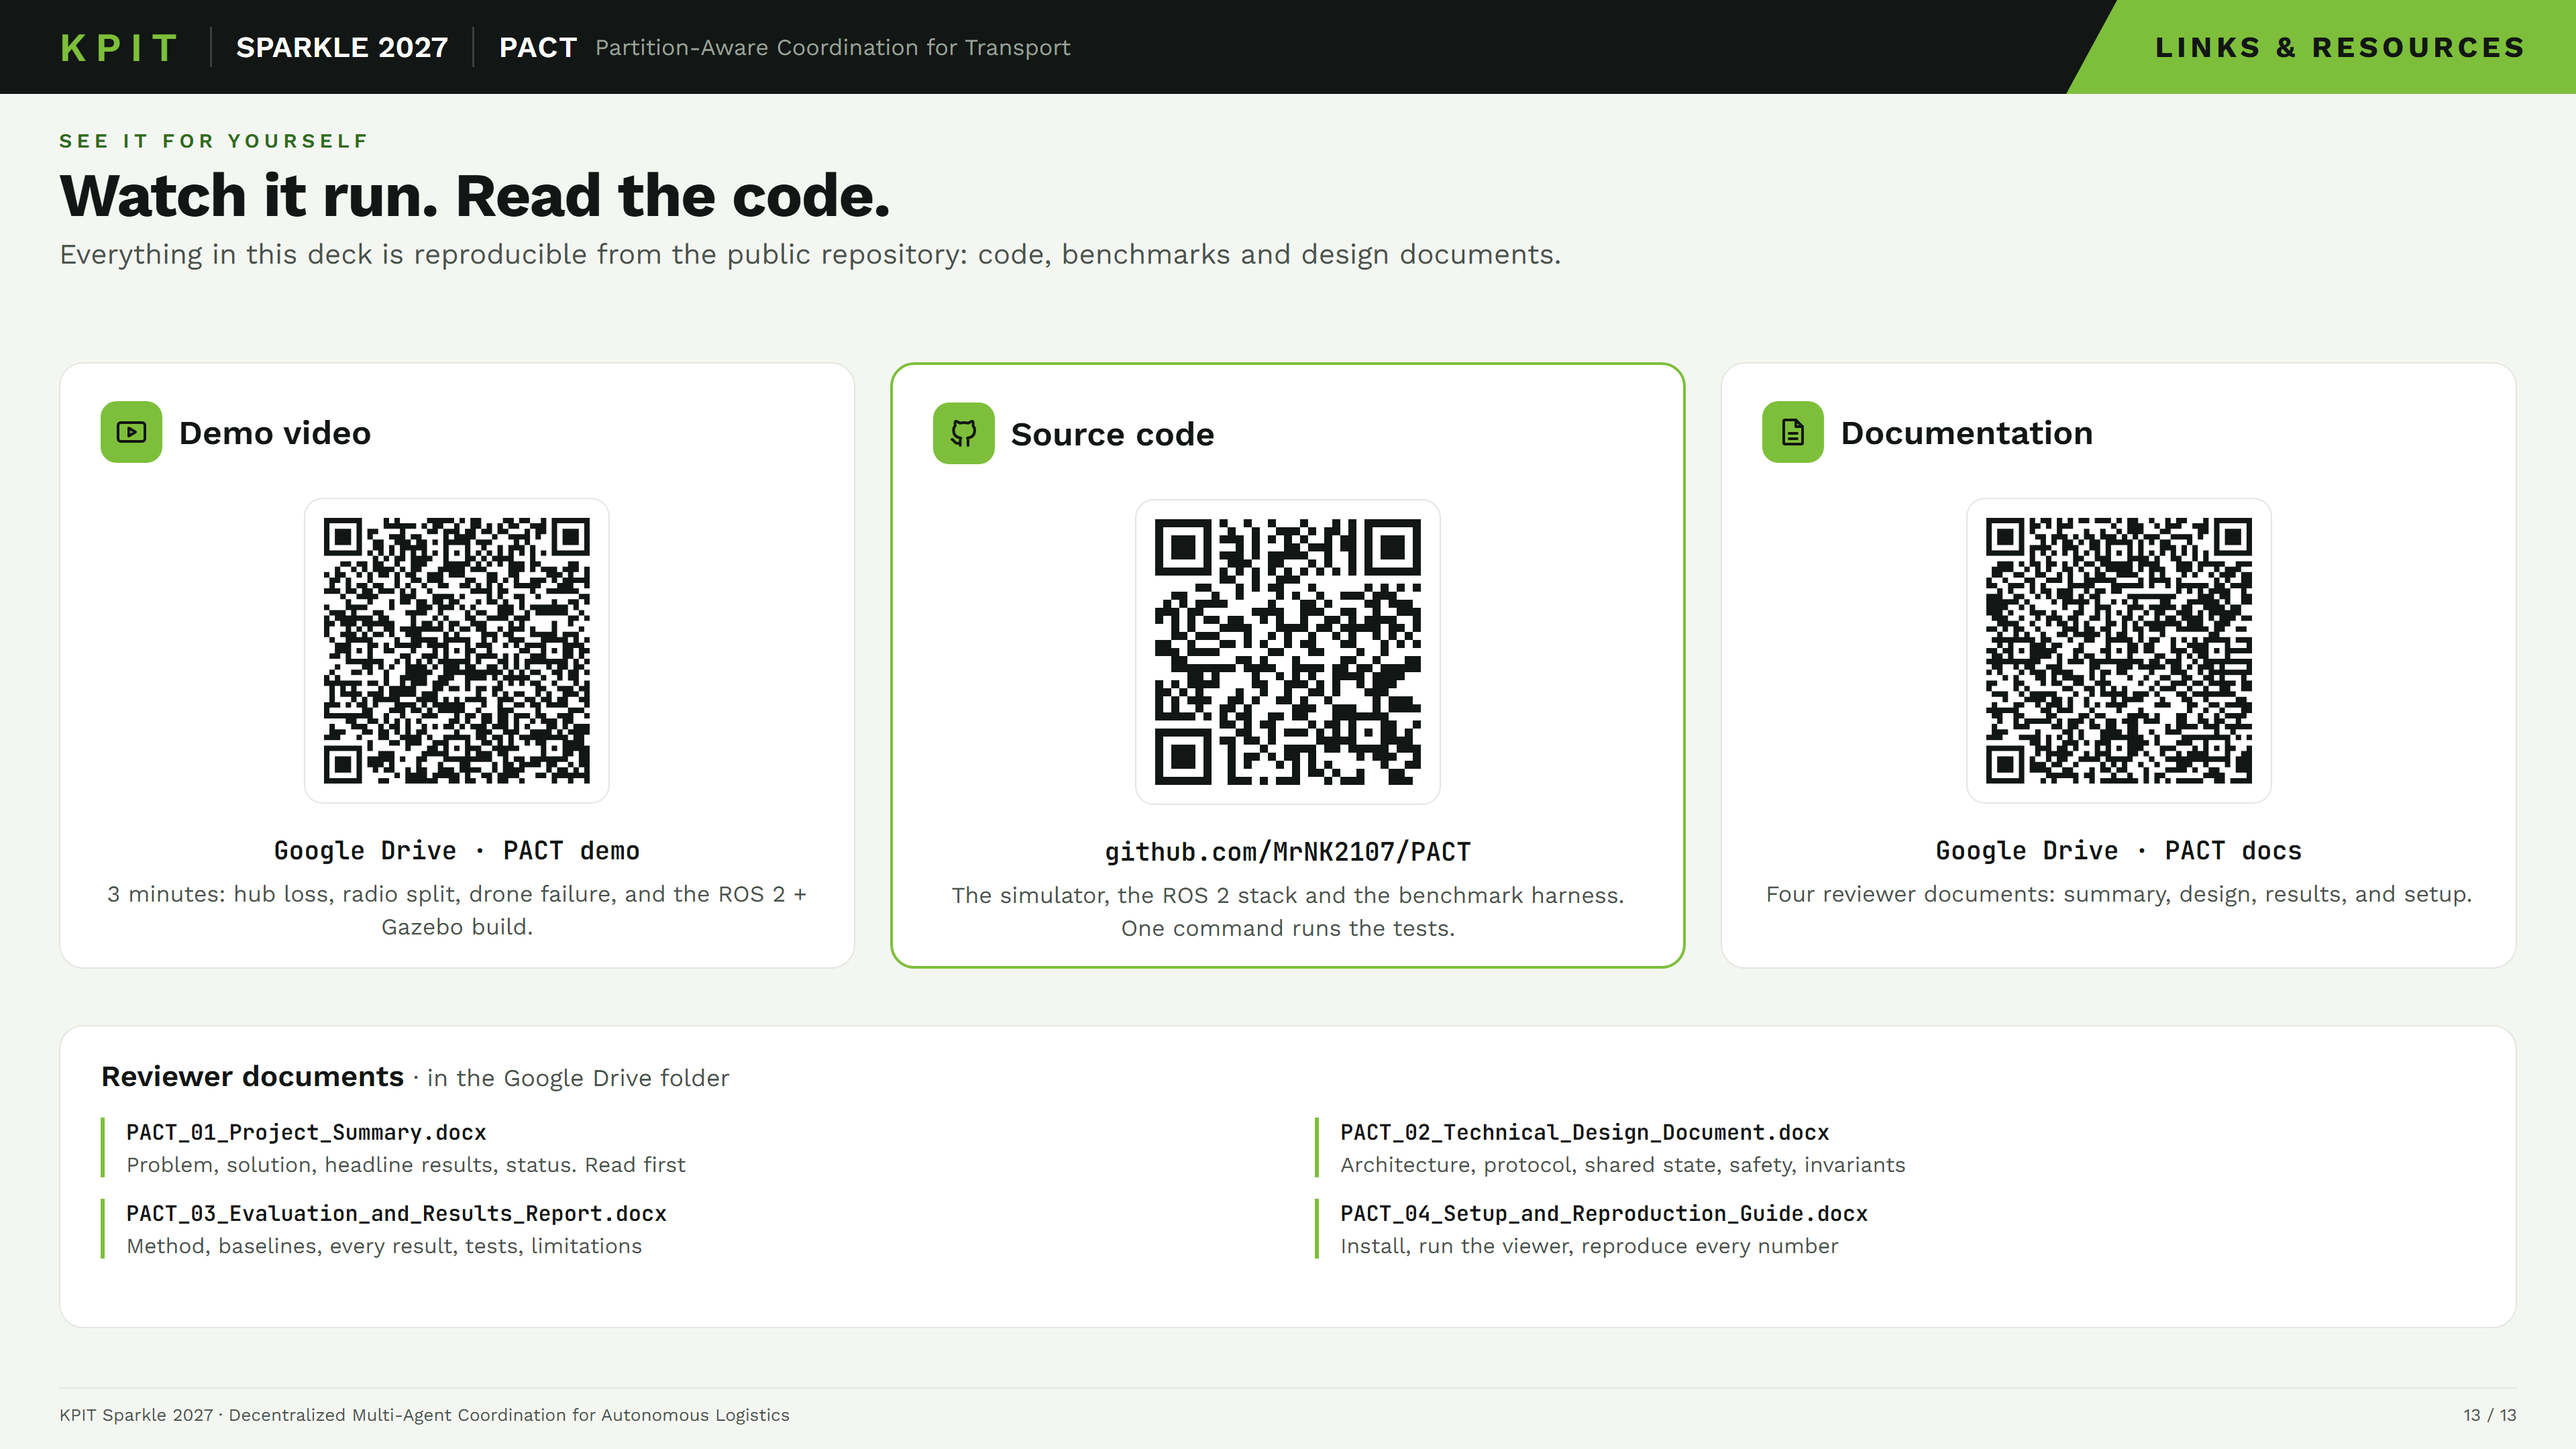
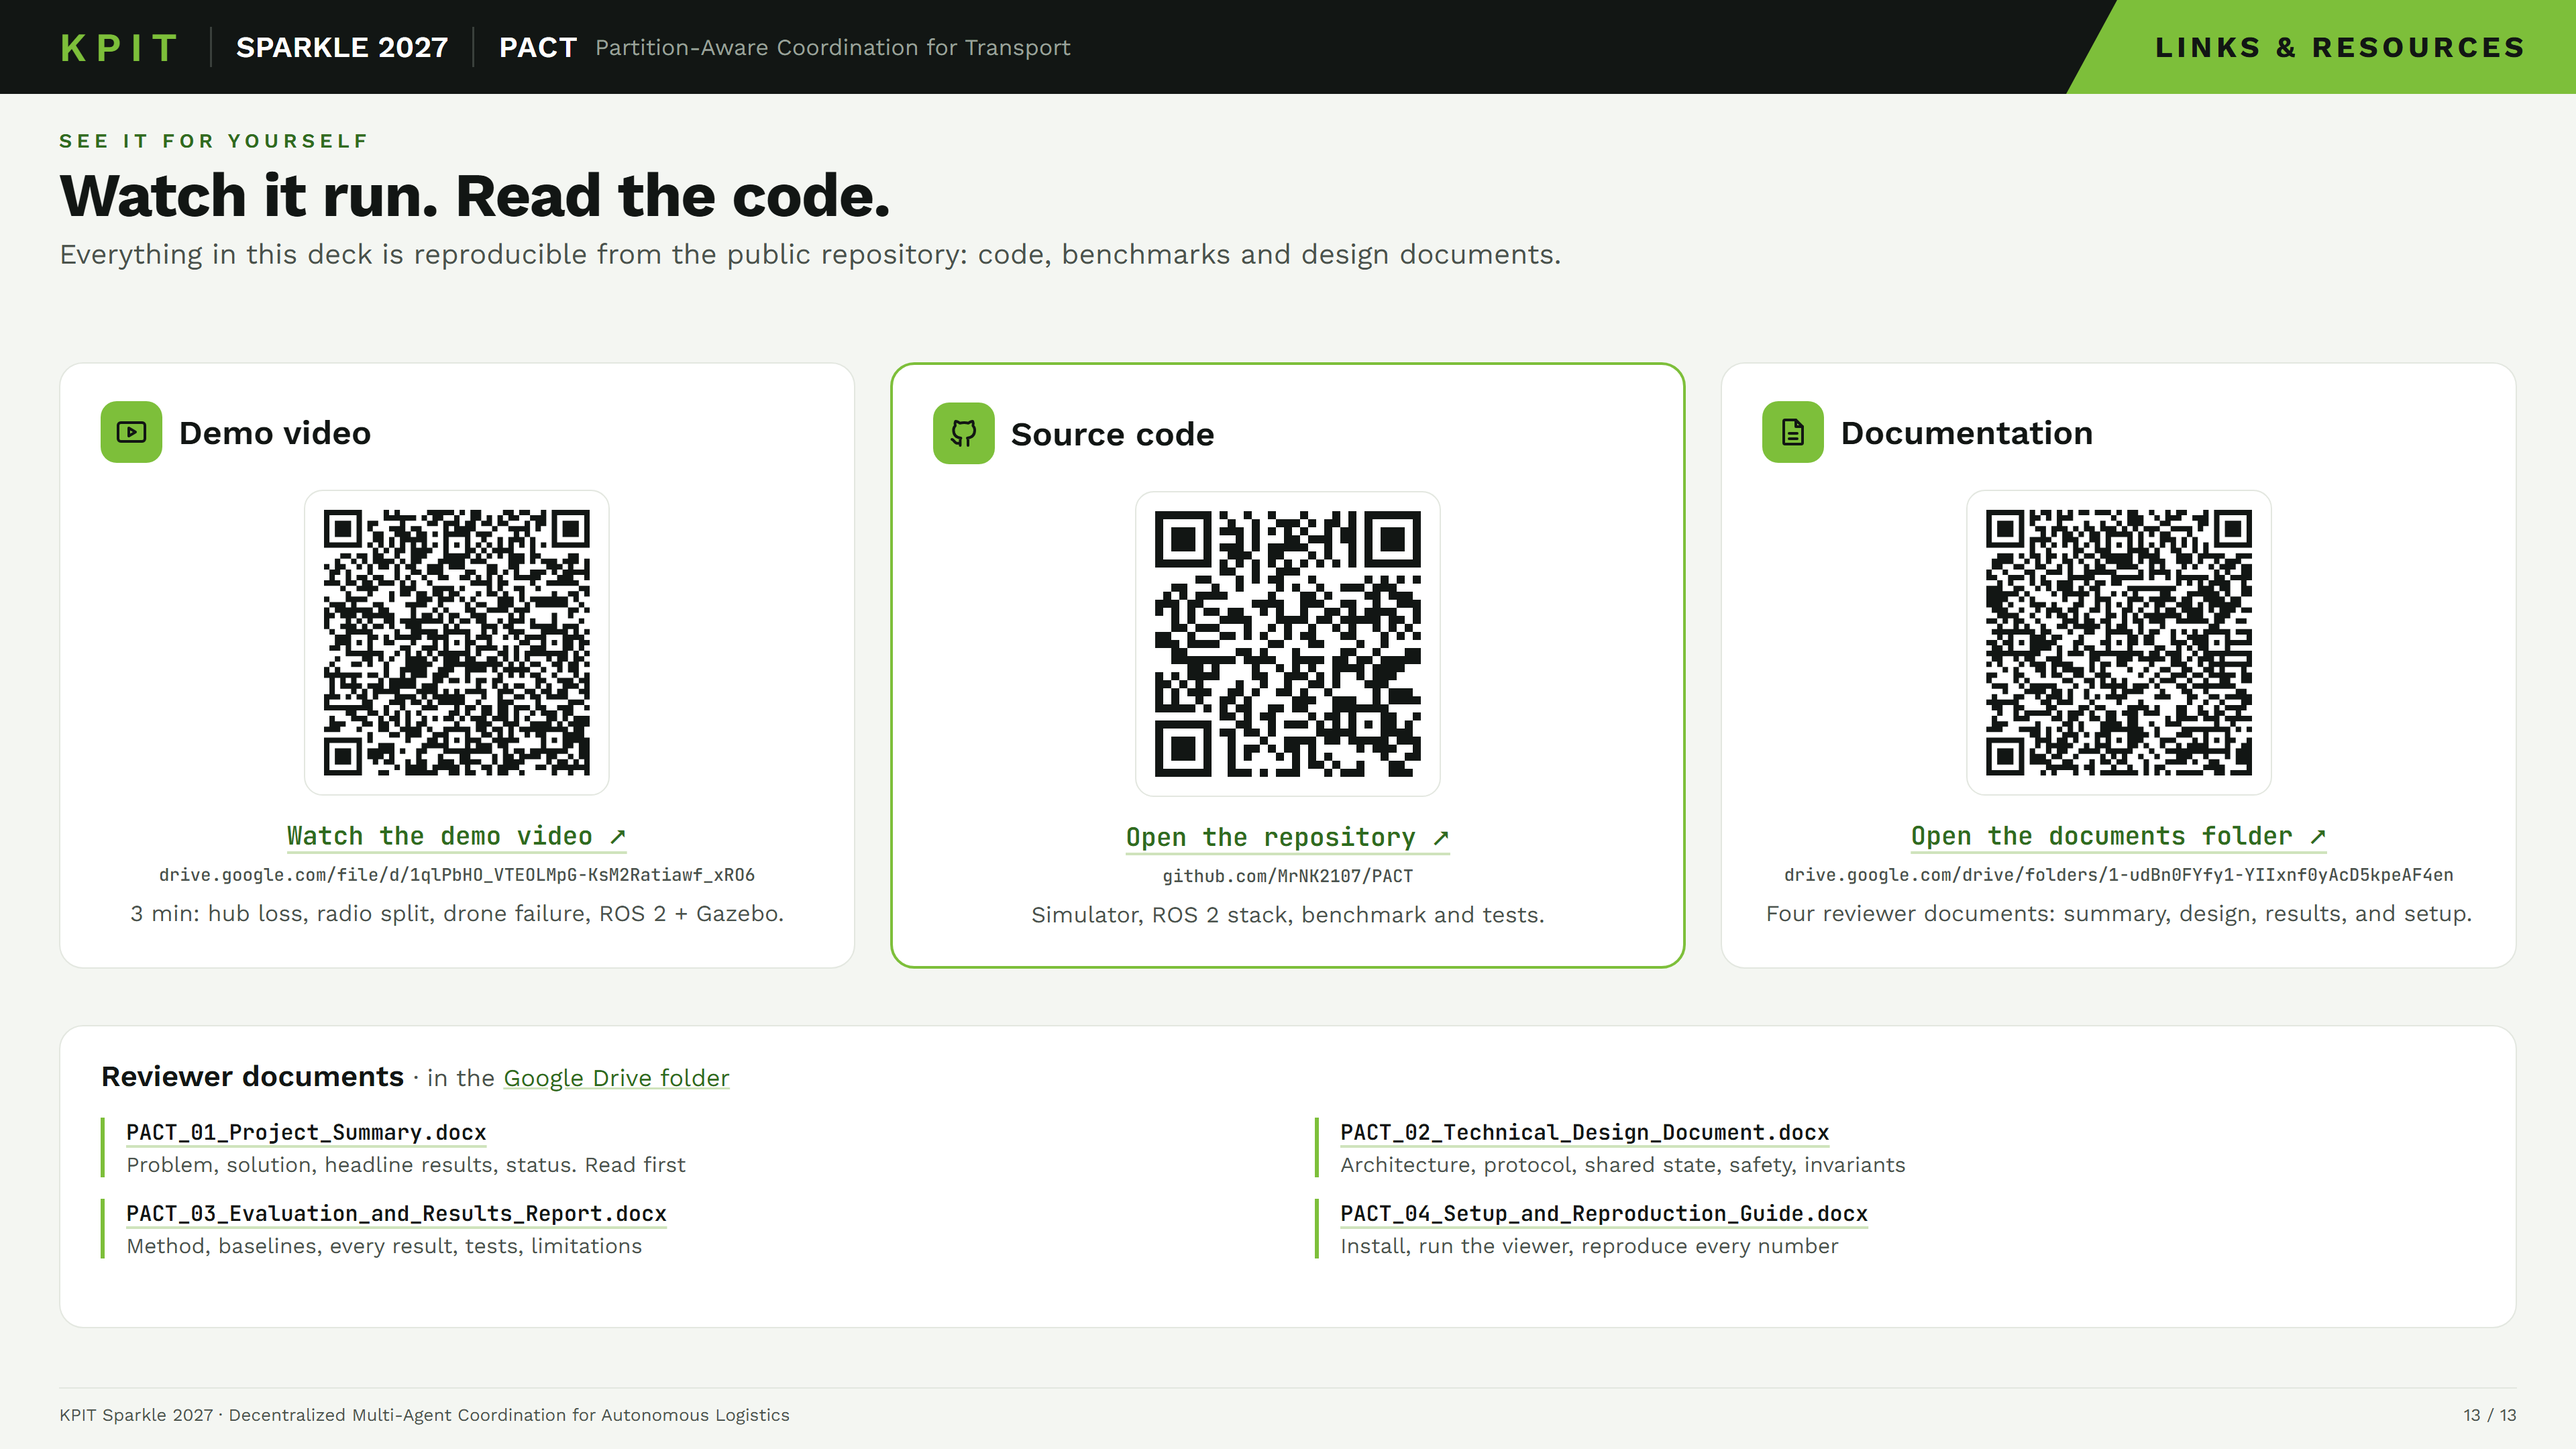
docs(deck): slide 13 links as hyperlinks with readable addresses

diff --git a/docs/slides/slide13_links.html b/docs/slides/slide13_links.html
@@ -13,15 +13,20 @@
   .sq { width: 46px; height: 46px; border-radius: 12px; background: var(--green); display: flex; align-items: center; justify-content: center; flex: none; }
   .sq svg { width: 24px; height: 24px; stroke: var(--ink); fill: none; stroke-width: 2; stroke-linecap: round; stroke-linejoin: round; }
   .kind .t { font-size: 25px; font-weight: 600; color: var(--ink); }
-  .qrbox { width: 228px; height: 228px; margin: 26px 0 22px; padding: 14px; background: #fff; border: 1px solid var(--border); border-radius: 14px; }
+  .qrbox { width: 228px; height: 228px; margin: 20px 0 16px; padding: 14px; background: #fff; border: 1px solid var(--border); border-radius: 14px; }
   .qrbox img { width: 100%; height: 100%; display: block; image-rendering: pixelated; }
   .qrbox.todo { border: 2px dashed var(--gline); background: var(--tint); display: flex; align-items: center; justify-content: center; color: var(--deep); font-size: 15px; font-weight: 600; letter-spacing: .14em; }
-  .url { font-family: 'JetBrains Mono', monospace; font-size: 19px; font-weight: 600; color: var(--ink); }
+  @page { size: 1920px 1080px; margin: 0; }
+  a { color: inherit; text-decoration: none; }
+  a.url { font-family: 'JetBrains Mono', monospace; font-size: 19px; font-weight: 600; color: var(--deep);
+          text-decoration: underline; text-decoration-color: var(--gline); text-decoration-thickness: 2px; text-underline-offset: 5px; }
+  .full { font-family: 'JetBrains Mono', monospace; font-size: 13px; color: var(--slate); margin-top: 8px; word-break: break-all; }
+  .dl a .p { text-decoration: underline; text-decoration-color: var(--gline); text-decoration-thickness: 2px; text-underline-offset: 4px; }
   .what { font-size: 17px; line-height: 1.45; margin-top: 8px; }
   .docs { position: absolute; left: 44px; right: 44px; top: 764px; height: 226px; padding: 24px 30px; }
   .docs h2 { font-size: 22px; color: var(--ink); font-weight: 600; margin-bottom: 18px; }
   .dl { display: grid; grid-template-columns: repeat(2, 1fr); gap: 16px 40px; }
-  .dl > div { border-left: 3px solid var(--green); padding-left: 16px; }
+  .dl > a { display: block; border-left: 3px solid var(--green); padding-left: 16px; }
   .dl .p { font-family: 'JetBrains Mono', monospace; font-size: 16px; font-weight: 600; color: var(--ink); }
   .dl .d { font-size: 16px; margin-top: 4px; }
 </style>
@@ -39,31 +44,34 @@
   <div class="links">
     <div class="card">
       <div class="kind"><div class="sq"><svg viewBox="0 0 24 24"><rect x="2" y="5" width="20" height="14" rx="2"/><path d="M10 9l5 3-5 3z"/></svg></div><span class="t">Demo video</span></div>
-      <div class="qrbox"><img src="qr/video.svg" alt="QR code for the demo video"></div>
-      <div class="url">Google Drive · PACT demo</div>
-      <div class="what">3 minutes: hub loss, radio split, drone failure, and the ROS 2 + Gazebo build.</div>
+      <a class="qrbox" href="https://drive.google.com/file/d/1qlPbHO_VTEOLMpG-KsM2Ratiawf_xRO6/view?usp=sharing"><img src="qr/video.svg" alt="QR code for the demo video"></a>
+      <a class="url" href="https://drive.google.com/file/d/1qlPbHO_VTEOLMpG-KsM2Ratiawf_xRO6/view?usp=sharing">Watch the demo video ↗</a>
+      <div class="full">drive.google.com/file/d/1qlPbHO_VTEOLMpG-KsM2Ratiawf_xRO6</div>
+      <div class="what">3 min: hub loss, radio split, drone failure, ROS 2 + Gazebo.</div>
     </div>
     <div class="card main">
       <div class="kind"><div class="sq"><svg viewBox="0 0 24 24"><path d="M9 19c-4 1.5-4-2-6-2.5M15 21v-3.5c0-1 .1-1.4-.5-2 2.8-.3 5.5-1.4 5.5-6a4.6 4.6 0 0 0-1.3-3.2 4.2 4.2 0 0 0-.1-3.2s-1-.3-3.4 1.3a11.6 11.6 0 0 0-6.2 0C6.6 2.8 5.6 3.1 5.6 3.1a4.2 4.2 0 0 0-.1 3.2A4.6 4.6 0 0 0 4.2 9.5c0 4.6 2.7 5.7 5.5 6-.6.6-.6 1.2-.5 2V21"/></svg></div><span class="t">Source code</span></div>
-      <div class="qrbox"><img src="qr/repo.svg" alt="QR code for github.com/MrNK2107/PACT"></div>
-      <div class="url">github.com/MrNK2107/PACT</div>
-      <div class="what">The simulator, the ROS 2 stack and the benchmark harness. One command runs the tests.</div>
+      <a class="qrbox" href="https://github.com/MrNK2107/PACT"><img src="qr/repo.svg" alt="QR code for github.com/MrNK2107/PACT"></a>
+      <a class="url" href="https://github.com/MrNK2107/PACT">Open the repository ↗</a>
+      <div class="full">github.com/MrNK2107/PACT</div>
+      <div class="what">Simulator, ROS 2 stack, benchmark and tests.</div>
     </div>
     <div class="card">
       <div class="kind"><div class="sq"><svg viewBox="0 0 24 24"><path d="M14 3H6a1 1 0 0 0-1 1v16a1 1 0 0 0 1 1h12a1 1 0 0 0 1-1V8z"/><path d="M14 3v5h5"/><path d="M9 13h6M9 17h6"/></svg></div><span class="t">Documentation</span></div>
-      <div class="qrbox"><img src="qr/docs.svg" alt="QR code for the docs folder"></div>
-      <div class="url">Google Drive · PACT docs</div>
+      <a class="qrbox" href="https://drive.google.com/drive/folders/1-udBn0FYfy1-YIIxnf0yAcD5kpeAF4en?usp=sharing"><img src="qr/docs.svg" alt="QR code for the docs folder"></a>
+      <a class="url" href="https://drive.google.com/drive/folders/1-udBn0FYfy1-YIIxnf0yAcD5kpeAF4en?usp=sharing">Open the documents folder ↗</a>
+      <div class="full">drive.google.com/drive/folders/1-udBn0FYfy1-YIIxnf0yAcD5kpeAF4en</div>
       <div class="what">Four reviewer documents: summary, design, results, and setup.</div>
     </div>
   </div>
 
   <div class="card docs">
-    <h2>Reviewer documents <span style="font-weight:400;color:var(--slate);font-size:18px">· in the Google Drive folder</span></h2>
+    <h2>Reviewer documents <span style="font-weight:400;color:var(--slate);font-size:18px">· in the <a href="https://drive.google.com/drive/folders/1-udBn0FYfy1-YIIxnf0yAcD5kpeAF4en?usp=sharing" style="color:var(--deep);text-decoration:underline;text-decoration-color:var(--gline)">Google Drive folder</a></span></h2>
     <div class="dl">
-      <div><div class="p">PACT_01_Project_Summary.docx</div><div class="d">Problem, solution, headline results, status. Read first</div></div>
-      <div><div class="p">PACT_02_Technical_Design_Document.docx</div><div class="d">Architecture, protocol, shared state, safety, invariants</div></div>
-      <div><div class="p">PACT_03_Evaluation_and_Results_Report.docx</div><div class="d">Method, baselines, every result, tests, limitations</div></div>
-      <div><div class="p">PACT_04_Setup_and_Reproduction_Guide.docx</div><div class="d">Install, run the viewer, reproduce every number</div></div>
+      <a href="https://drive.google.com/drive/folders/1-udBn0FYfy1-YIIxnf0yAcD5kpeAF4en?usp=sharing"><div class="p">PACT_01_Project_Summary.docx</div><div class="d">Problem, solution, headline results, status. Read first</div></a>
+      <a href="https://drive.google.com/drive/folders/1-udBn0FYfy1-YIIxnf0yAcD5kpeAF4en?usp=sharing"><div class="p">PACT_02_Technical_Design_Document.docx</div><div class="d">Architecture, protocol, shared state, safety, invariants</div></a>
+      <a href="https://drive.google.com/drive/folders/1-udBn0FYfy1-YIIxnf0yAcD5kpeAF4en?usp=sharing"><div class="p">PACT_03_Evaluation_and_Results_Report.docx</div><div class="d">Method, baselines, every result, tests, limitations</div></a>
+      <a href="https://drive.google.com/drive/folders/1-udBn0FYfy1-YIIxnf0yAcD5kpeAF4en?usp=sharing"><div class="p">PACT_04_Setup_and_Reproduction_Guide.docx</div><div class="d">Install, run the viewer, reproduce every number</div></a>
     </div>
   </div>
   <div class="foot"><span>KPIT Sparkle 2027 · Decentralized Multi-Agent Coordination for Autonomous Logistics</span><span>13 / 13</span></div>
